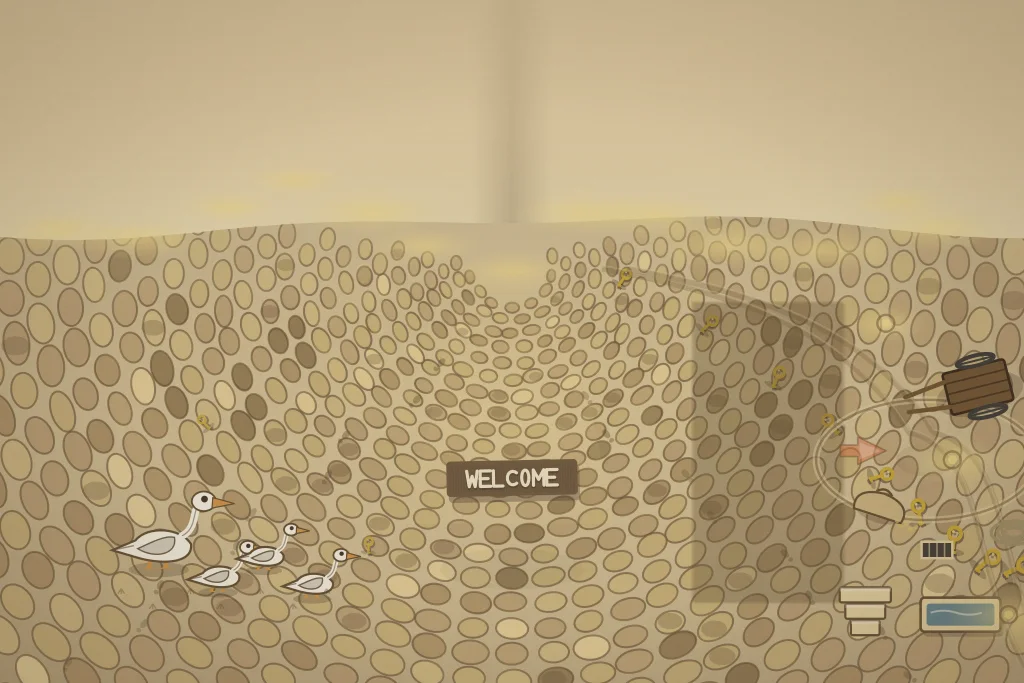
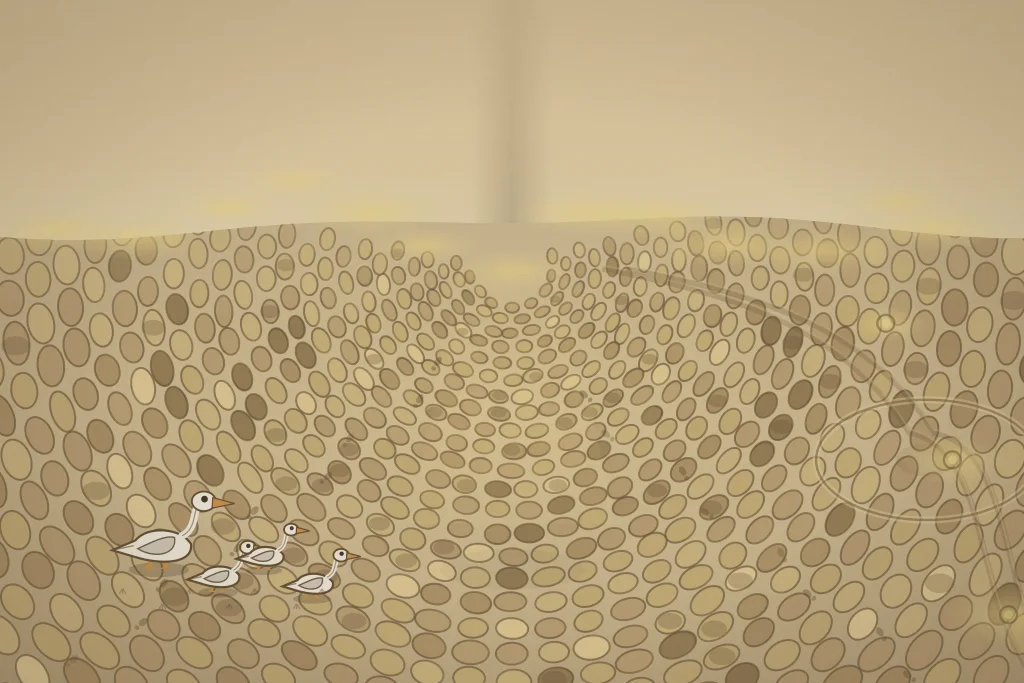
fix(labs/storybook): clean spread-2 page print — retire E3 prop furniture
The WELCOME doormat, brass-key trail, key-board paper cues and coaching-yard
prop doodles all served popups the tunnel replaced; under the diorama they
read as pixel clutter (judge flag). Cobble fill covers the vacated ground;
geese, boot trails and ground-only yard marks stay. paper-cues register
updated for the two retired adopters. Regenerated page-2.webp only.

diff --git a/__tests__/labs/storybook/paper-cues.test.ts b/__tests__/labs/storybook/paper-cues.test.ts
@@ -410,7 +410,8 @@ describe('paper-cue vocabulary — the register of who speaks paper', () => {
       'cofferLid: the shut lid, a loose ply sitting on its box',
       'crankWheel: the grip lobe pool',
       'crankWheel: the grip lobe lip',
-      'innCourtyardSpread: the key-board plaque pool, where the LIFT ribbon stood',
+      // (innCourtyardSpread's key-board plaque pool retired with the E3 inn rig
+      //  in E4 — the plaque it pooled under no longer stands on that page.)
       'assayDial: the wax-seal thumb lobe standing proud of the plate',
       'assayCard: the faceplate rim, a ply riveted over the wheel',
     ],
@@ -421,7 +422,8 @@ describe('paper-cue vocabulary — the register of who speaks paper', () => {
       'cofferLid: one ember arrow at the hasp, along the free edge travel',
       'dispatchCablePanel: the SEND-mast sealed-letter chevron set',
       'crankWheel: the rim chevrons (the hand-rolled ink arrows converted)',
-      'innCourtyardSpread: one ember arrow along the key-board leaves\' travel',
+      // (innCourtyardSpread's ember arrow retired with the E3 inn rig in E4 —
+      //  it aimed at key-board leaves that are no longer on the spread.)
       'assayDial: the two ember chevron sets flanking the thumb lobe',
       'bazRaiseStallFace: the setting-out track chevrons, where the cartouche read',
       'swarmTab: the pull-axis chevrons, where STIR THE SWARM was set',
